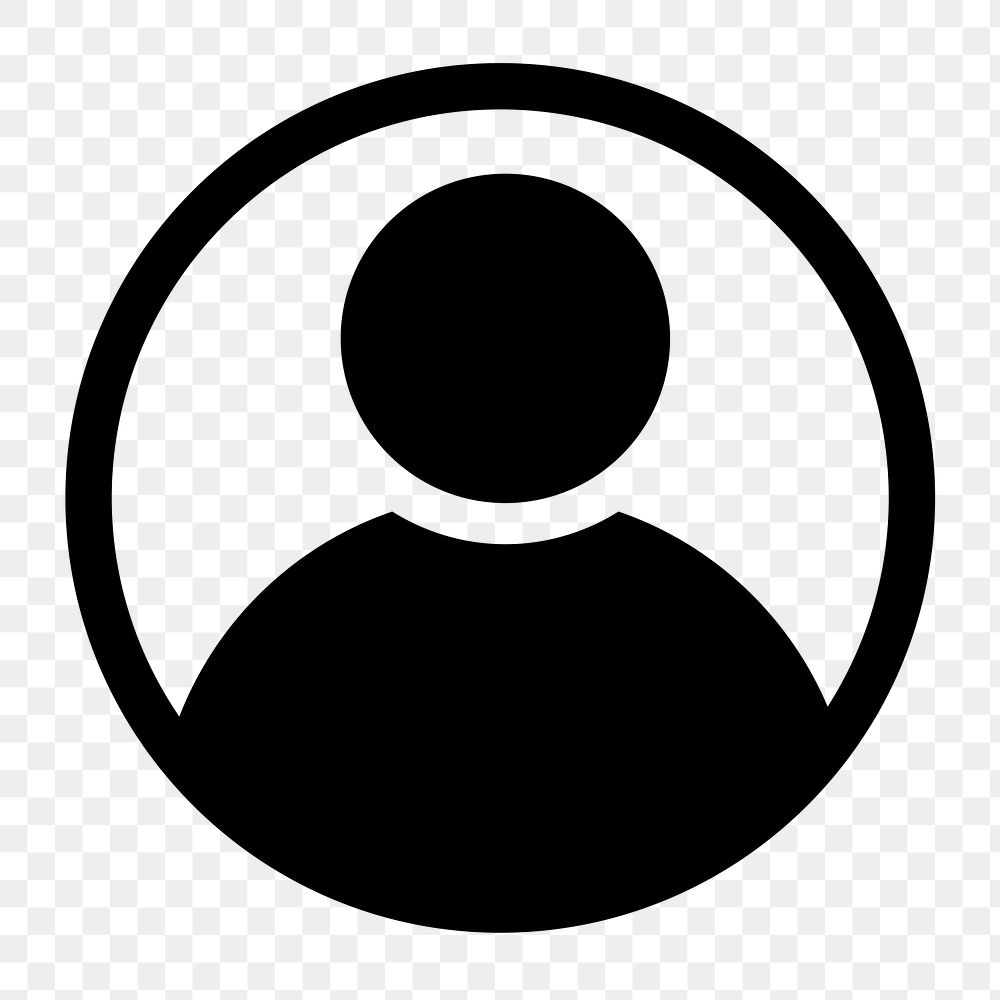
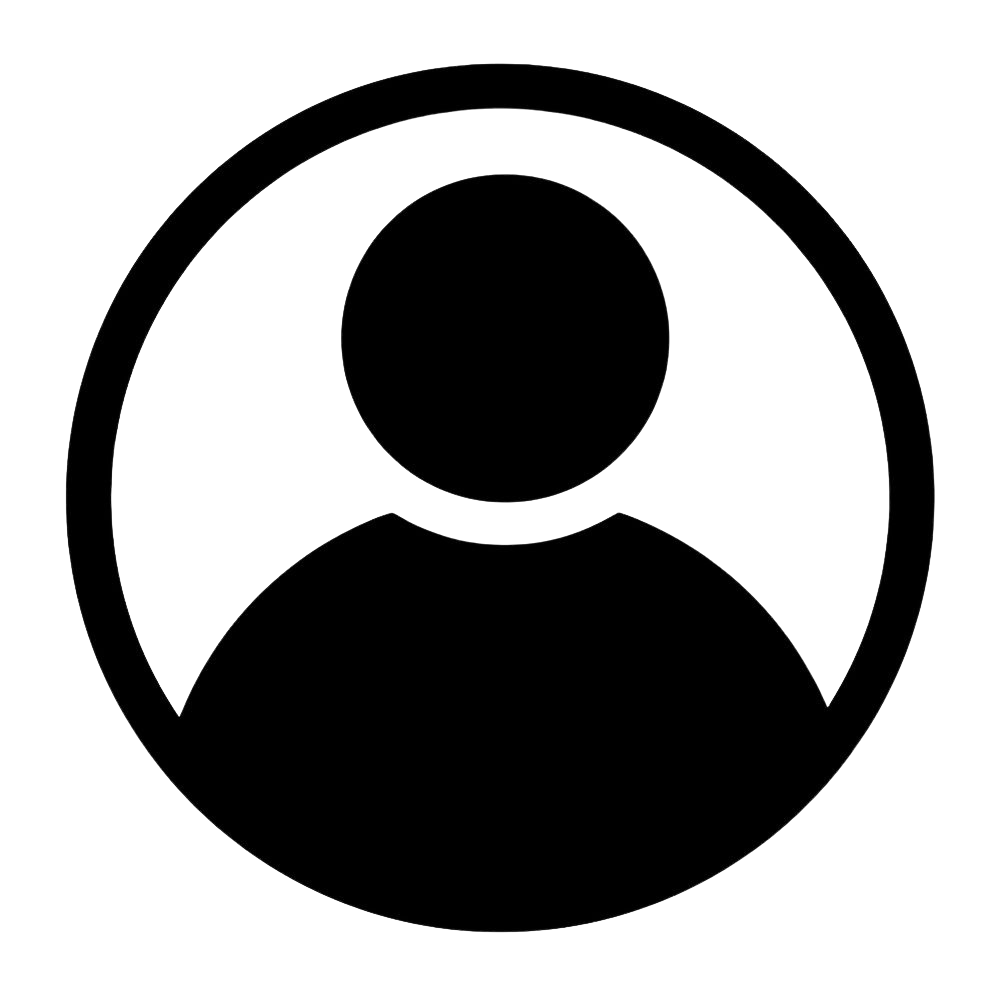
change the image, completed the heading, develop the sidebar, not completed.

Changed region(s): [[0.806, 0.775, 0.837, 0.806]]

diff --git a/PHP/header.php b/PHP/header.php
@@ -1,50 +1,53 @@
 <style>
-header {
-  display: flex;
-  justify-content: space-between;
-  align-items: center;
-  padding: 20px;
-  background-color: #fff;
-  box-shadow: 0 2px 4px rgba(0, 0, 0, 0.1);
-}
+  header {
+    display: flex;
+    justify-content: space-between;
+    align-items: center;
+    padding: 20px;
+    background-color: #fff;
+    border-bottom-style: solid;
+    border-bottom-width: 1px;
+  }
 
-.logo {
+  .logo {
+      display: flex;
+      align-items: center;
+  }
+
+  .logo img {
+    max-height: 5em;
+  }
+
+  .user-actions {
     display: flex;
     align-items: center;
-}
+  }
 
-.logo img {
-  max-height: 5em;
-}
+  .user-actions a {
+    margin-right: 15px;
+    color: #666;
+  }
 
-.user-actions {
-  display: flex;
-  align-items: center;
-}
-
-.user-actions a {
-  margin-right: 15px;
-  color: #666;
-}
-
-.user-actions a img{
-    max-height: 50px;
-}
+  .user-actions a img{
+      max-height: 50px;
+  }
 </style>
 
 <header>
     <div class="logo">
-        <div>
-            <img src="../img/logo.png" alt="Eco Waste System">
-        </div>
-        <div id="title">
-            <h1>Eco Waste System</h1>
-        </div>
+      <div>
+          <img src="../img/logo.png" alt="Eco Waste System">
+      </div>
+      <div id="title">
+          <h1>Eco Waste System</h1>
+      </div>
     </div>
-    
+    <div>
+      <h2>Title</h2>
+    </div>
     <nav class="user-actions">
-        <a href="#"><img src="../img/notification.png" alt="Notification"></a>
-        <a href="#"><img src="../img/setting.png" alt="Setting"></a>
-        <a href="#"><img src="../img/profile.png" alt="Profile"></a>
+      <a href="#"><img src="../img/notification.png" alt="Notification"></a>
+      <a href="#"><img src="../img/setting.png" alt="Setting"></a>
+      <a href="#"><img src="../img/profile.png" alt="Profile"></a>
     </nav>
 </header>

diff --git a/PHP/sidebar.php b/PHP/sidebar.php
@@ -1,0 +1,62 @@
+<style>
+    aside#sidebar {
+        width: 200px;
+        padding: 20px;
+        height: 100vh; /* Adjust height as needed */
+        position: fixed; /* Keep sidebar fixed */
+        top: 121px;
+        left: 0;
+        border-right-style: solid;
+        border-right-width: 1px;
+    }
+
+    aside#sidebar ul {
+        list-style: none;
+        padding: 0;
+    }
+
+    aside#sidebar ul li {
+        margin-bottom: 10px;
+        padding-top: 20px;
+        padding-bottom: 20px;
+    }
+
+    aside#sidebar ul li a {
+        text-decoration: none;
+        color: #333;
+        font-weight: bold;
+        margin-left: 25px;
+    }
+</style>
+
+<body>
+    <aside id="sidebar">
+        <div style="height: 80%;">
+            <div style="margin-bottom: 50px;">
+                <h3>MAIN MENU</h3>
+                <ul>
+                    <li><a href="#">Dashboard</a></li>
+                    <li><a href="#">Schedule Pickup</a></li>
+                    <li><a href="#">Pickup History</a></li>
+                    <li><a href="#">Report Issues</a></li>
+                    <li><a href="#">Generate Reports</a></li>
+                </ul>
+            </div>
+            <div>
+                <h3>PREFERENCES</h3>
+                <ul>
+                    <li><a href="#">Preferences</a></li>
+                    <li><a href="#">Manage Notification</a></li>
+                    <li><a href="#">Settings</a></li>
+                    <li><a href="#">Help & Center</a></li>
+                </ul>
+            </div>
+        </div>
+        <div>
+            <ul>
+                <li><a href="#">Log Out</a></li>
+            </ul>
+        </div>
+
+    </aside>
+</body>

diff --git a/PHP/templete.php b/PHP/templete.php
@@ -1,3 +1,8 @@
+<?php
+    include "header.php";
+    include "sidebar.php";
+?>
+
 <!DOCTYPE html>
 <html lang="en">
 <head>
@@ -5,7 +10,9 @@
     <meta name="viewport" content="width=device-width, initial-scale=1.0">
     <title>Document</title>
 </head>
-<body>
-    
+<body style="margin: 0;">
+    <div style="margin-left: 241px;">
+        <h1>code here</h1>
+    </div>
 </body>
 </html>
